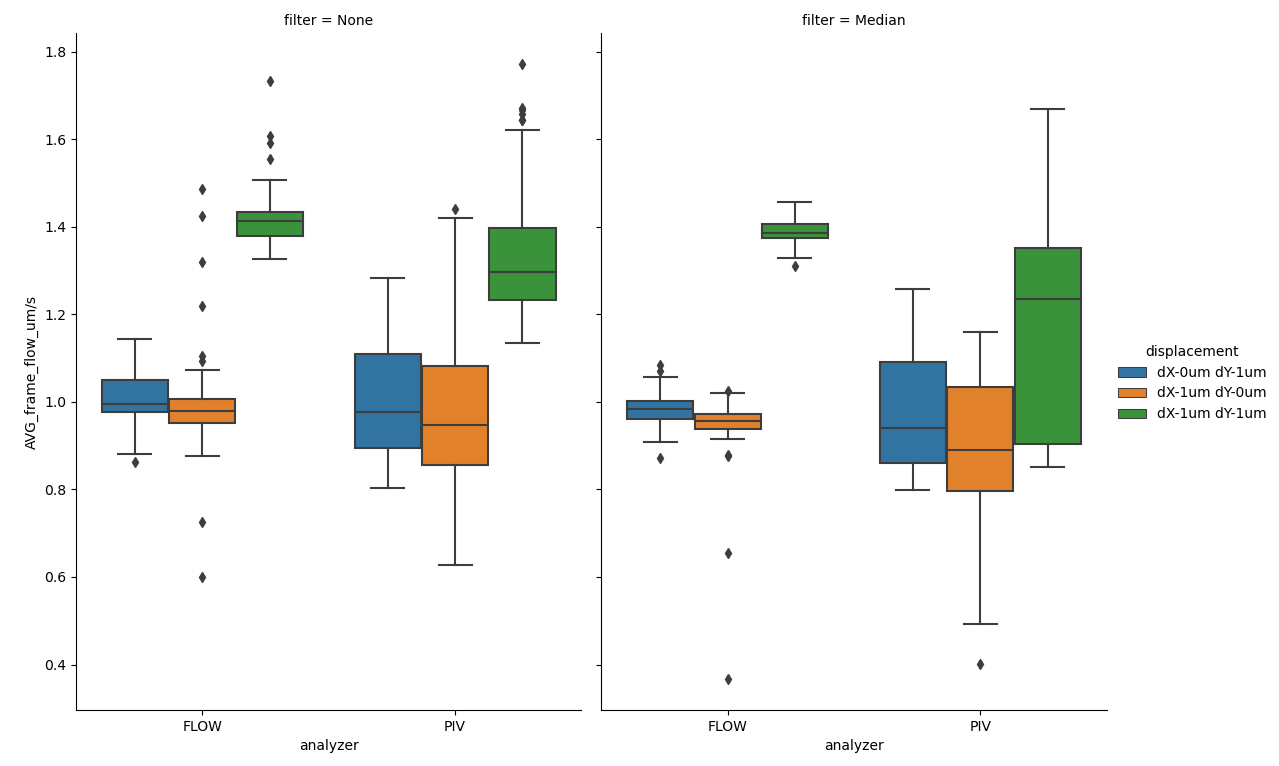
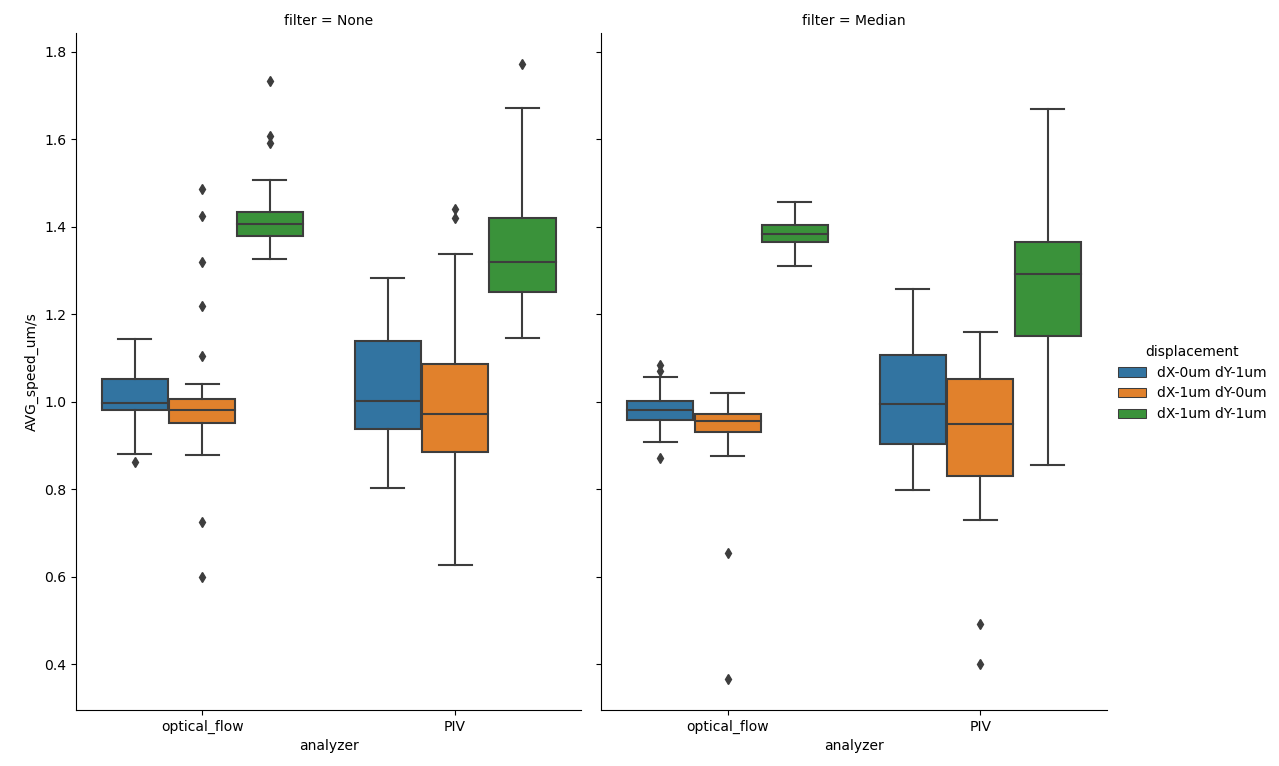
figures updated

diff --git a/cellocity/validation.py b/cellocity/validation.py
@@ -92,39 +92,6 @@ def processAndMakeDf(ch_list):
 
     return alldata
 
-
-def speedCsvToDataFrame(inpath):
-    """
-    Generates and returns a dataframe from FlowSpeedAnalysis CSVs in inpath.
-    """
-    alldata = pd.DataFrame()
-
-    for f in inpath.iterdir():
-
-        if (f.suffix == ".csv") and f.is_file():
-            df = pd.read_csv(f, index_col=0)
-            fields = f.name.split("_")
-            analyzer = fields[0]
-            process_time = float(fields[-1][:-4])
-            magnification = fields[4]
-            displacemet = fields[5] + " " +fields[6]
-
-            if "MED" in f.name:
-                filter = "Median"
-            else:
-                filter = "None"
-
-            df["analyzer"]=analyzer
-            df["filter"]=filter
-            df["magnification"]=magnification
-            df["process_time"]=process_time
-            df["displacement"]=displacemet
-            df["filename"]=f.name
-
-            alldata = alldata.append(df)
-
-    return alldata
-
 def make_proces_time_plot(df):
     """
     Generates a bar plot comparing processing times for the two analyzers.
@@ -147,6 +114,7 @@ def make_speed_plot(df):
                     hue="displacement", col="filter",
                     data=df, kind="box",
                     height=8, aspect=.7)
+
     return sns_plot
 
 def make_ai_plot(df):
@@ -158,6 +126,7 @@ def make_ai_plot(df):
                     hue="displacement", col="filter",
                     data=df, kind="box",
                     height=8, aspect=.7)
+
     return sns_plot
 
 
@@ -187,6 +156,20 @@ def make_piv_analyzer(ch):
     return analyzer
 
 def get_data_as_df(analyzer, analyzername):
+    """
+    Creates FlowSpeedAnalysis() and AlignmentIndexAnalysis() from a FlowAnalyzer.
+
+    Calculates average frame speeds and alignment indexes and returns a DataFrame with the results.
+
+
+    :param analyzer: FlowAnalyzer
+    :type analyzer: analysis.FlowAnalyzer
+    :param analyzername: Name of FlowAnalyzer
+    :type analyzername: str
+
+    :return: pd.DataFrame containing results and information derived from channel.name
+    :rtype: pandas.DataFrame
+    """
 
     speed_analysis = FlowSpeedAnalysis(analyzer)
     speed_analysis.calculateAverageSpeeds()
@@ -215,21 +198,22 @@ def get_data_as_df(analyzer, analyzername):
     return df
 
 
-if __name__ == "__Main__":
+if __name__ == "__main__":
     finterval = 1
     kvargs = {'step': 60, 'scale': 10, 'line_thicknes': 2}
     saveme = outpath3 / "alldata.csv"
     ch_list = make_channels(inpath)
     df = processAndMakeDf(ch_list)
     df.to_csv(saveme)
-    df = pd.read_csv(r"C:\Users\Jens\Desktop\temp3\alldata.csv")
-    print(df.columns)
+    df = pd.read_csv(saveme)
+
     timeplot = make_proces_time_plot(df)
     plt.show()
-    # plt.savefig(avg_speed_compare.png)
-    speedplot = make_speed_plot(df)
+
+    speed_plot = make_speed_plot(df)
     plt.show()
-    aiplot = make_ai_plot(df)
+
+    ai_plot = make_ai_plot(df)
     plt.show()
 
 

diff --git a/docs/validation.rst b/docs/validation.rst
@@ -3,7 +3,7 @@ Validation of the cellocity software
 
 In order to validate the underlying analyzers in Cellocity we have generated a “ground truth”, real-world microscopy dataset.
 The dataset was generated by translating and imaging, with DIC contrast, a fixed monolayer of primary gut epithelium on a high precision linear microscope stage, using a wide selection of magnifications.
-10 images were aquired with the stage translated 1 :math:`{\mu m}` in either the X, Y or both directions simultaneously between frames. Images were aquired on a Nikcon Eclipse Ti-2 microscope equipped with a Photometrics Prime 95B camera (1608x1608, 11 um pixel size).
+10 images were acquired  with the stage translated 1 :math:`{\mu m}` in either the X, Y or both directions simultaneously between frames. Images were acquired on a Nikon Eclipse Ti-2 microscope equipped with a Photometrics Prime 95B camera (1608x1608, 11 um pixel size).
 The general structure of the dataset is outlined in the table below.
 
 +---------------------------------+-----------+---------------+-----------------+--------------------+--------------------+------------------------------------------------------------+
@@ -43,7 +43,7 @@ The general structure of the dataset is outlined in the table below.
 
 This dataset allowed us compare the "gold standard" of cell cynamics analysis, Particle Image Velocimetry (PIV) analysis with the lesser-used optical flow analysis.
 Our conclusion mirror what was found in :cite:`Vig2016`, which is that optical flow analysis is indeed superior to PIV analysis in both accuracy and efficiency.
-The following section will substantiate this finding.
+The following section will substantiate this finding. All analysis were run on a early 2020 Dell XPS 15 7590 laptop running Windows 10.
 
 .. figure:: _static/process_time_compare.png
     :align: left
